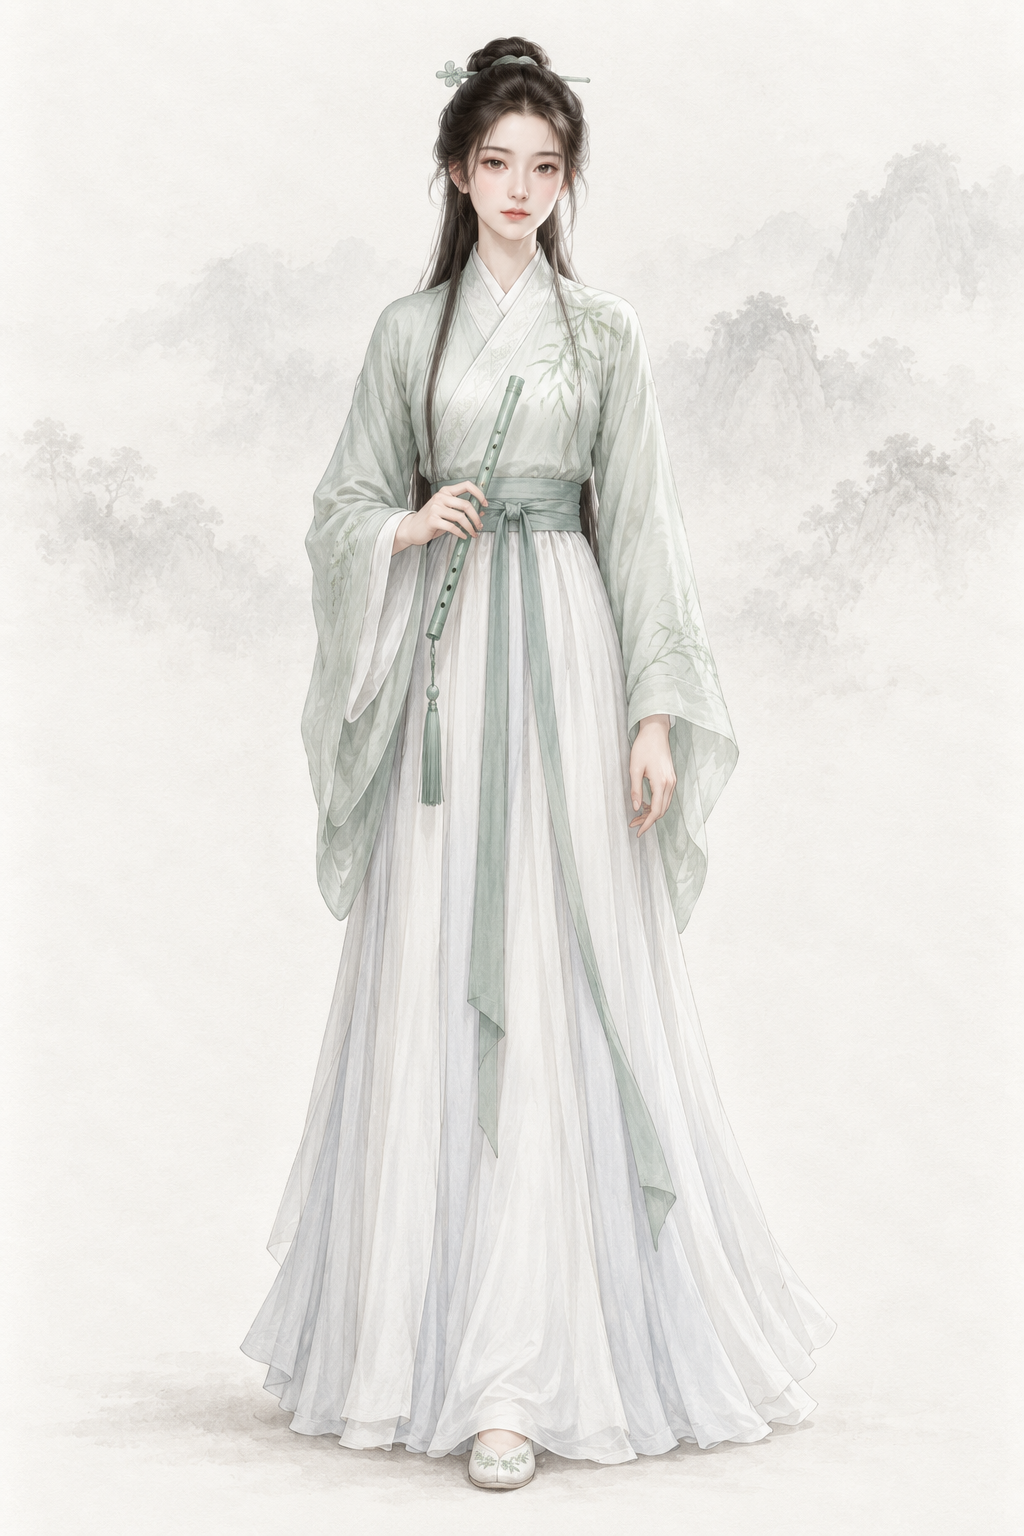
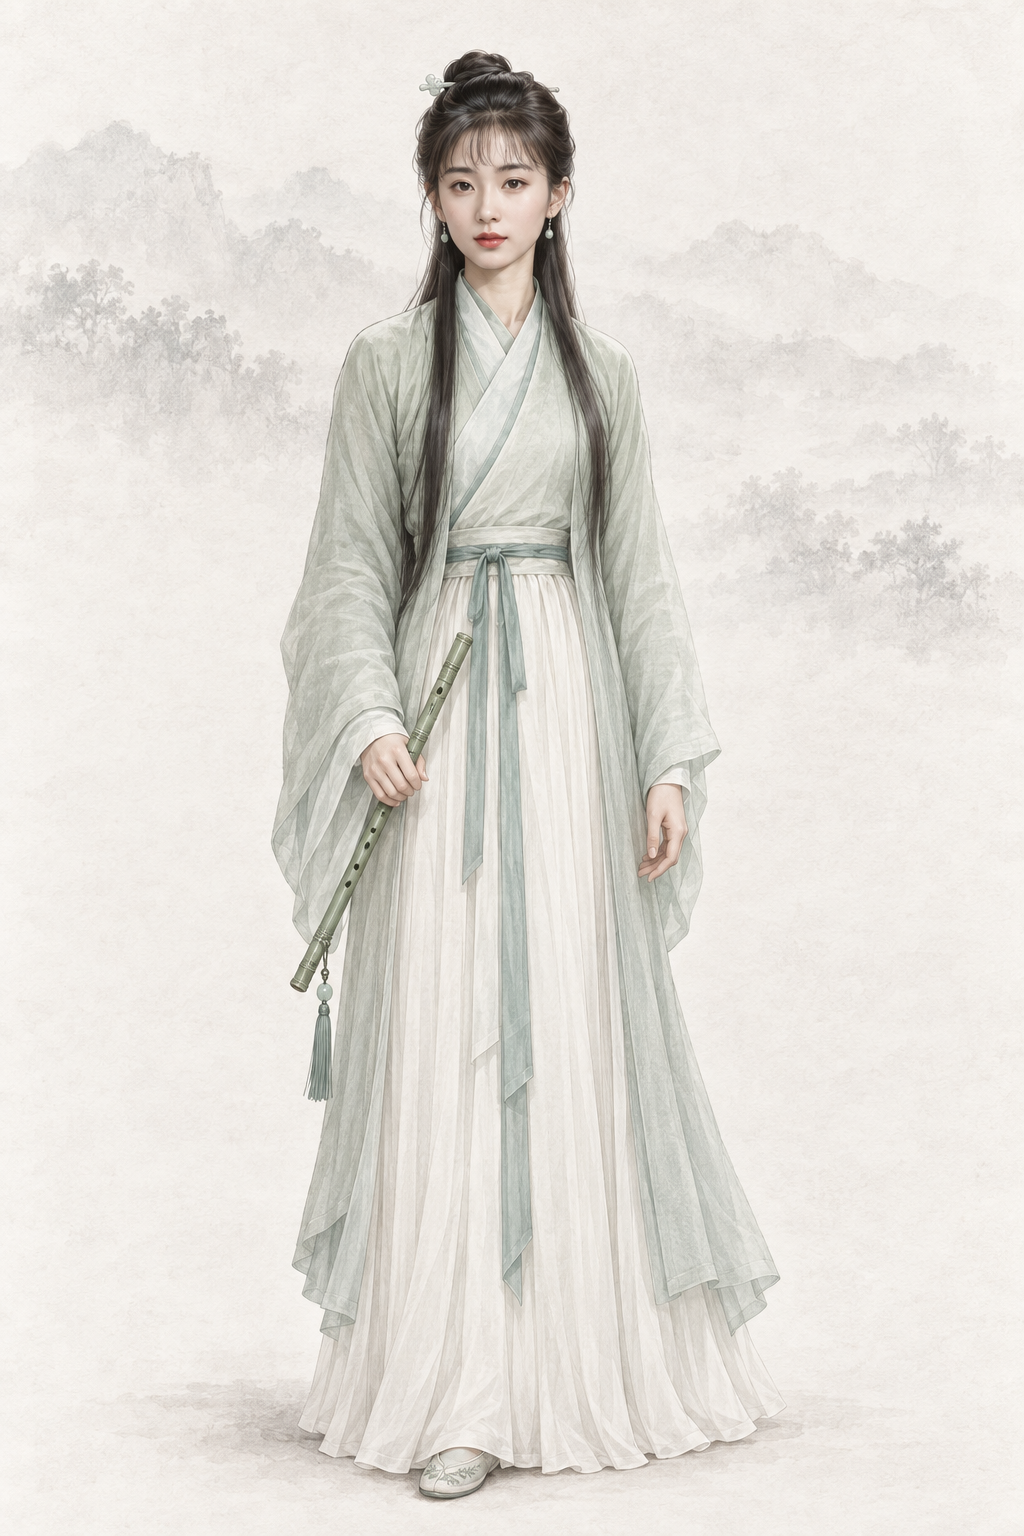
assets(character): por_npc_chengying__ch03_youth_unmasked_base 程英（codex · AR-32 经典剧照 + 基线）
参考 1995 TVB《神雕侠侣》 剧照（chengying_1995_zhangkeyi_sina2019.jpg）与两张同性别基线重出；提示词写回、frontmatter 加 classic_ref。

diff --git a/assets/default/prompts/characters/ch03-shendiao/npc_chengying.md b/assets/default/prompts/characters/ch03-shendiao/npc_chengying.md
@@ -16,13 +16,40 @@ references:
 status: redo
 realism_revision: user_identity_pose_20261001
 redo_reason: "旧图以剧照为第一身份参考生成（A 级肖像风险；REVIEW-portraits-A 待作者裁定项，按默认重出），按原著外貌用文字原创重做"
-reference_upload: []
+reference_upload:
+- .agents/coord/imagegen-reference/identity-20261001/shendiao/chengying_1995_zhangkeyi_sina2019.jpg
+- assets/default/baseline/character/female/ref_npc_wangyuyan__ch01_base01.png
+- assets/default/baseline/character/female/ref_npc_xiaolongnv__ch03_base01.png
 codex_prompt_rev: 2026-10-02
+classic_ref:
+  version: 1995 TVB《神雕侠侣》
+  stills:
+  - .agents/coord/imagegen-reference/identity-20261001/shendiao/chengying_1995_zhangkeyi_sina2019.jpg
 ---
 
 # 程英 · 人物写实修正
 
 ## Gemini 提示词
+
+> 2026-10-02 AR-32 重出（5 号出图员，codex exec · image_gen）：主要角色改为参考经典影视版剧照加项目基线生成。上传顺序：1995 TVB《神雕侠侣》 剧照 1 张（chengying_1995_zhangkeyi_sina2019.jpg），最后两张为同性别画风基线（缩小版 JPEG）。剧照只借造型、气质与面部特征，画面按项目画风重绘、不复制照片。上一版（AR-31 文字版）保留在下一节作历史。
+
+```text
+生成一张 2:3 竖幅全身人物立绘：单人、单一视角、完整全身——头顶、双手、双脚和手中器物的两端都在画面内，四周留出自然空白；人物站姿自然，身体基本朝向正面，头部端正（不歪头、不仰不俯），镜头平视。
+【画风】写实手绘古风人物插画，与本项目写实武侠角色立绘同一画风，像功力深厚的画师用细腻笔触画出的真实美人。手绘插画质感，不是 CG 渲染：不要过度光滑的皮肤、完美对称的五官、塑料高光、过度锐利的发丝；保留自然的笔触和细微不完美。肌肤细腻自然，看得见极细的肤理和自然的左右不对称，不磨皮、不油亮、不打粉；头发是一缕缕自然的发丝和少量碎发；布料看得出经纬纹理、厚薄和自然垂坠的褶皱，干净完整；整体设色低饱和、雅致；柔和的自然光从左上方照来，明暗过渡自然，不打舞台光、轮廓光或美颜柔光。不是照片，不是三维渲染，不是动漫或游戏 CG，也不是油画（没有厚涂笔触和画布纹理）。
+【背景】不透明的暖浅灰色纸底，只在远处有极淡的水墨远山和薄雾，大面积留白；人物与背景明暗分明、轮廓边缘干净完整（后续要自动抠图），水墨和纸纹只在背景里，不侵入人物和衣服；脚下只有很淡的一点接触阴影。
+【人物】程英，《神雕侠侣》黄药师的关门弟子、陆无双的表姐；摘下面具、露出本来面容的日常阶段。温柔娴静、聪慧善良，擅吹玉箫。
+【年龄与体态】约二十岁的成年年轻女子，身形纤秀。成年女性的五官骨相与身体比例（约 7 头身），衣着完整端庄、不透明、不暴露、不性感化。
+【经典造型】以九十年代中期经典港剧里那位温婉娴静的程英为蓝本（见剧照）：温柔秀丽的脸、沉静温柔的眼神；乌发半挽、其余长发垂在背后；一身淡青衣裙，手执玉箫；清雅温婉。
+【面容】温柔秀丽的鹅蛋脸、下颌柔和；眉毛细长平缓；一双沉静温柔的眼睛；鼻梁秀直；唇色淡；肌肤白皙细腻。清雅温婉、眉目如画（原创扩展）。
+【发式】乌发挽成简洁的发髻，插一支素玉簪，其余长发垂在背后。
+【服饰】淡青色交领右衽窄袖衫、月白长裙、青色丝绦，平底绣鞋；素雅干净。
+【道具】右手执一支碧玉箫（箫身完整），左手自然垂下。
+【姿态与神情】安静站立，神情温柔娴静。
+【不要】画面里不要任何文字、题款、印章、签名、水印、边框、分格或多视图；不要第二个人；不要幼态（童颜、娃娃脸、婴儿肥、儿童或少年身材、大头小身）；不要塑料感皮肤、磨皮美颜、网红脸（尖下巴大眼高鼻的模板脸）、过度对称、浓妆、偶像式打光、蜡像感；不要照片质感、三维渲染或动漫大眼；不要歪头、斜镜头；不要多指、缺指（设定的伤残除外）、手与器物粘连或悬空；汉式交领必须右衽（穿着者的左襟压在右襟上），不要左衽（设定为少数民族服制的除外），不要水平镜像；不要现代物品、发光特效、法阵或能量光。不要人皮面具；不要浓妆；不要娃娃脸；不要与陆无双撞脸。
+【参考图】随提示词上传的参考图共 3 张，按顺序：第 1 张是这个角色经典影视造型的剧照：借鉴其发型、服饰、配色、标志道具、气质和面部特征，让人一眼认出是这个角色；但必须重新绘制成本项目的画风，不要照片质感，不要照搬剧照的构图、光影、背景和姿势，也不要做成照片修图；剧照与上文文字有出入时，以上文文字为准。最后两张是本项目的立绘画风基线：画风、用色、光线、质感和暖浅灰纸底加淡水墨的背景以它们为准——精细写实的数字手绘插画，不是油画，不要厚涂笔触和画布纹理；基线图里人物的长相、年龄、发型、服饰和姿势一律不取。
+```
+
+## AR-31 文字版 Gemini 提示词（2026-10-02 凌晨；AR-32 剧照版之前，历史，不再用于出图）
 
 > 2026-10-02 按原著外貌以文字重写（文字稿由 1 号出图员起草，3 号出图员写回并出图；codex exec · image_gen）：旧图以剧照为第一身份参考生成，属 `tools/agents/reports/REVIEW-portraits-A-ch00-04.md` 的「剧照派生 A 级配角 · 待作者裁定」项，协调者按默认转为本轮重出。不写演员名、不用剧照、原创面孔，禁止幼态；出图只上传两张同性别基线立绘作画风参考，不上传身份参考（`reference_upload: []`）。frontmatter 的 `references` 与本节以下的旧提示词是旧出图管线的历史记录，不再用于出图。
 
